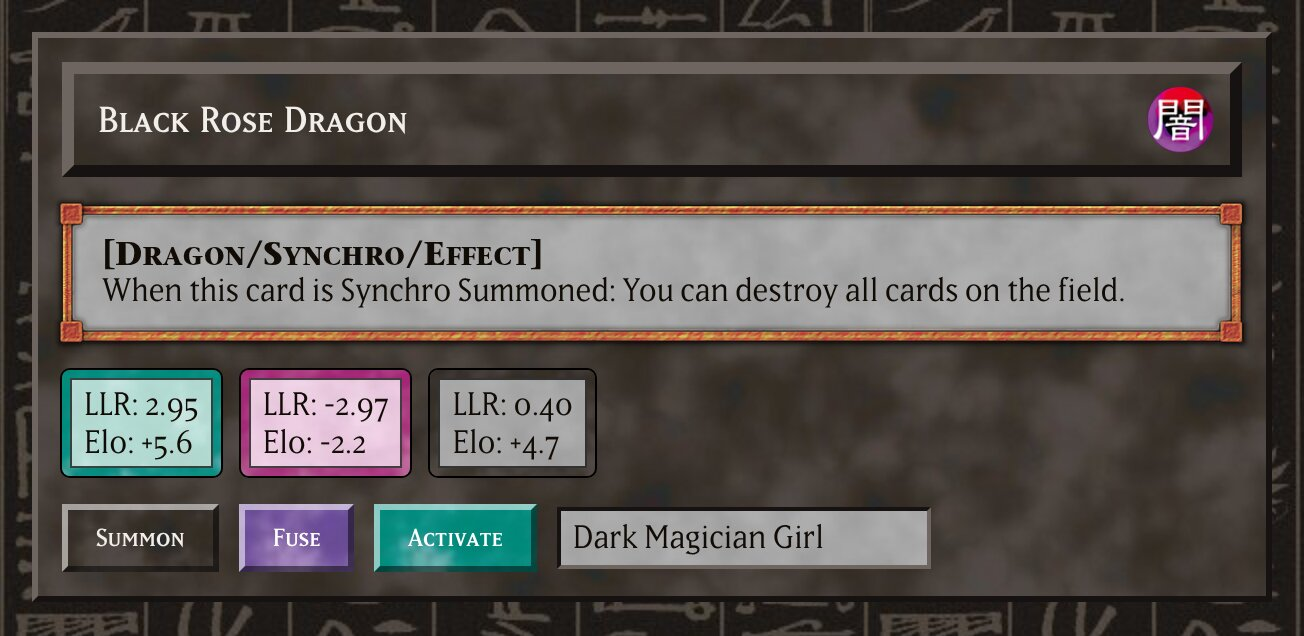
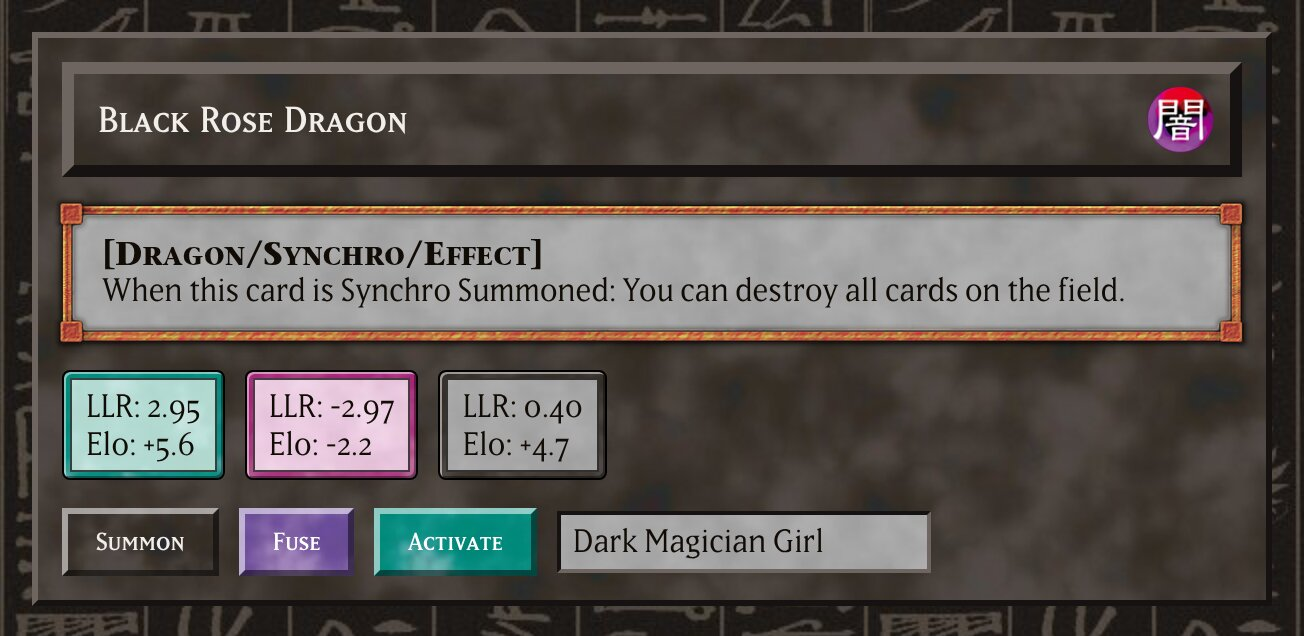
Stat box as in OpenBenchYGO: a ring with a bevel, the text box 4px inside it
The ring is the box itself (padding, light and dark inner edges), the text box a layer behind the text (::before). The README images show it.

Changed region(s): [[0.0307, 0.5676, 0.9816, 0.956]]

diff --git a/ygo.css b/ygo.css
@@ -236,18 +236,30 @@ table.text-box {
 .text-box tr:last-child td { border-bottom: 0; }
 .text-box th, .text-box td { padding: 7px 10px; }
 
-/* ---------- .stat-box: a small box of a card type (frame ring, its text box) ---------- */
+/* ---------- .stat-box: a small box of a card type (frame ring, its text box) ----------
+   The ring is the box itself, with a bevel (light top and left, dark bottom and right); the
+   text box lies 4px inside it, behind the text. */
 
 .stat-box {
+    position: relative;
+    isolation: isolate;
     display: inline-block;
-    padding: 4px 7px 3px;
-    border: 4px solid transparent;
+    padding: 8px 11px 7px;
+    border: 1px solid #000;
     border-radius: 4px;
-    background: var(--card-text) 0 0 / 256px padding-box, var(--card-frame-small) 0 0 / 256px border-box;
-    box-shadow: 0 0 0 1px #000, inset 0 0 0 1px rgba(0, 0, 0, 0.7);
+    background: var(--card-frame-small) 0 0 / 256px;
+    box-shadow: inset 1px 1px 0 rgba(255, 255, 255, 0.5), inset -1px -1px 0 rgba(0, 0, 0, 0.4);
     color: var(--ygo-ink);
     font-family: var(--ygo-font-text);
     line-height: 1.2;
+}
+.stat-box::before {
+    content: "";
+    position: absolute;
+    inset: 3px;
+    z-index: -1;
+    border: 1px solid rgba(0, 0, 0, 0.7);
+    background: var(--card-text) 0 0 / 256px;
 }
 
 /* ---------- .art-box: the steel frame around a card's art, dark inside ---------- */
